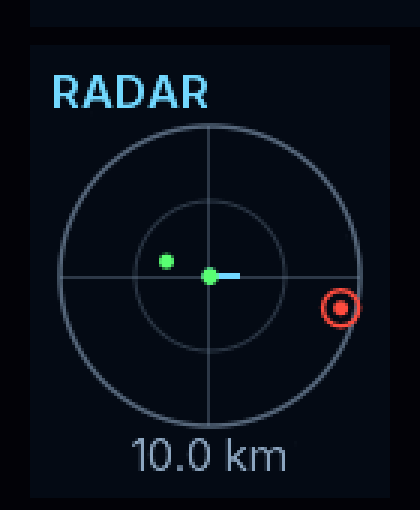
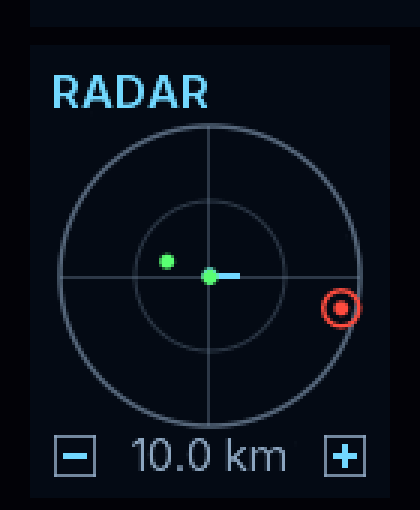
Add radar zoom buttons and click a contact to target it
The radar's range now steps with − and + buttons beside the range label,
from 500 m to 1,000 km, instead of cycling on any click. A click elsewhere
on the scope picks the nearest contact within 8 px: a sensor contact is
locked as Tab would, and a station or other marked object becomes the
navigation target, as on the traffic map.

Claude-Session: https://claude.ai/code/session_019poqwWfLXwX1cynYL94vJP

diff --git a/ui-hud/src/main/java/com/ringsofiron/uihud/widgets/RadarScope.java b/ui-hud/src/main/java/com/ringsofiron/uihud/widgets/RadarScope.java
@@ -1,5 +1,6 @@
 package com.ringsofiron.uihud.widgets;
 
+import com.badlogic.ashley.core.Entity;
 import com.badlogic.gdx.graphics.Color;
 import com.badlogic.gdx.graphics.g2d.Batch;
 import com.badlogic.gdx.graphics.g2d.BitmapFont;
@@ -16,20 +17,27 @@ import com.badlogic.gdx.utils.FloatArray;
 import com.ringsofiron.uihud.HudSkin;
 import com.ringsofiron.uihud.systems.HudRenderSystem;
 
+import java.util.function.Consumer;
+
 /**
  * The proximity scanner (GDD section 2): contacts around the player's ship, north up like the
  * exterior view, with the ship's heading as a line from the middle. Contacts beyond the range sit
- * on the rim as hollow marks. A click cycles the range through {@link #RANGES}.
+ * on the rim as hollow marks. The + and − buttons either side of the range step it through
+ * {@link #RANGES}; a click anywhere else picks the contact under the cursor, if any, for the
+ * {@link #setPickListener pick listener}.
  *
  * <p>{@link com.ringsofiron.uihud.systems.RadarSystem} fills it each frame.
  */
 public class RadarScope extends Widget {
-    /** Ranges a click cycles through, meters from the ship to the rim. */
-    public static final float[] RANGES = {2_000f, 10_000f, 50_000f, 250_000f};
-    public static final int DEFAULT_RANGE = 1;
+    /** Ranges the buttons step through, meters from the ship to the rim, closest first. */
+    public static final float[] RANGES = {500f, 2_000f, 10_000f, 50_000f, 250_000f, 1_000_000f};
+    public static final int DEFAULT_RANGE = 2;
     private static final float SIZE = 104f;
-    /** The strip under the scope that holds the range, so the text stays off the rim. */
+    /** The strip under the scope that holds the range and the zoom buttons, so they stay off the rim. */
     private static final float LABEL_HEIGHT = 16f;
+    private static final float BUTTON = 14f;
+    /** How near the cursor, in pixels, a click has to be to a contact's mark to pick it. */
+    static final float PICK_RADIUS = 8f;
 
     private final TextureRegion white;
     private final BitmapFont font;
@@ -37,10 +45,12 @@ public class RadarScope extends Widget {
     private final FloatArray offsets = new FloatArray();
     private final Array<Color> colors = new Array<>();
     private final FloatArray locked = new FloatArray();
+    private final Array<Entity> entities = new Array<>();
     private final Vector2 p = new Vector2();
     private float headingDeg = 90f;
     private boolean hasShip;
     private int range = DEFAULT_RANGE;
+    private Consumer<Entity> pickListener;
 
     public RadarScope(Skin skin) {
         white = skin.getRegion("white");
@@ -48,13 +58,67 @@ public class RadarScope extends Widget {
         addListener(new ClickListener() {
             @Override
             public void clicked(InputEvent event, float x, float y) {
-                cycleRange();
+                click(x, y);
             }
         });
     }
 
-    public void cycleRange() {
-        range = (range + 1) % RANGES.length;
+    /** Called with the contact a click on the scope lands on; clicks on empty scope call nothing. */
+    public void setPickListener(Consumer<Entity> listener) {
+        pickListener = listener;
+    }
+
+    /** Steps to the next closer range, showing more detail; false when already at the closest. */
+    public boolean zoomIn() {
+        if (range == 0) return false;
+        range--;
+        return true;
+    }
+
+    /** Steps to the next longer range; false when already at the longest. */
+    public boolean zoomOut() {
+        if (range == RANGES.length - 1) return false;
+        range++;
+        return true;
+    }
+
+    /** A click at {@code x, y} in the widget's own coordinates: a zoom button, else a pick. */
+    void click(float x, float y) {
+        if (y <= LABEL_HEIGHT) {
+            if (x <= BUTTON + 2f) zoomOut();
+            else if (x >= getWidth() - BUTTON - 2f) zoomIn();
+            return;
+        }
+        if (pickListener == null || !hasShip) return;
+        int i = pick(x - getWidth() / 2f, y - centerY(), offsets, getRange(), radius(), p);
+        if (i >= 0) pickListener.accept(entities.get(i));
+    }
+
+    /**
+     * Which contact a click {@code x, y} pixels from the scope's middle lands on: the index into
+     * {@code offsets} (dx, dy pairs in meters) of the nearest mark within {@link #PICK_RADIUS}, or -1.
+     */
+    static int pick(float x, float y, FloatArray offsets, float range, float radius, Vector2 tmp) {
+        int best = -1;
+        float bestD2 = PICK_RADIUS * PICK_RADIUS;
+        for (int i = 0; i < offsets.size / 2; i++) {
+            plot(offsets.get(2 * i), offsets.get(2 * i + 1), range, radius, tmp);
+            float d2 = tmp.dst2(x, y);
+            if (d2 <= bestD2) {
+                bestD2 = d2;
+                best = i;
+            }
+        }
+        return best;
+    }
+
+    private float radius() {
+        return Math.min(getWidth(), getHeight() - LABEL_HEIGHT) / 2f - 2f;
+    }
+
+    /** The scope's middle, up from the widget's bottom. */
+    private float centerY() {
+        return LABEL_HEIGHT + (getHeight() - LABEL_HEIGHT) / 2f;
     }
 
     public float getRange() {
@@ -68,9 +132,11 @@ public class RadarScope extends Widget {
         offsets.clear();
         colors.clear();
         locked.clear();
+        entities.clear();
     }
 
-    public void addContact(float dx, float dy, Color color, boolean isLocked) {
+    public void addContact(Entity entity, float dx, float dy, Color color, boolean isLocked) {
+        entities.add(entity);
         offsets.add(dx, dy);
         colors.add(color);
         locked.add(isLocked ? 1f : 0f);
@@ -98,9 +164,8 @@ public class RadarScope extends Widget {
     @Override
     public void draw(Batch batch, float parentAlpha) {
         Color old = batch.getColor().cpy();
-        float scope = Math.min(getWidth(), getHeight() - LABEL_HEIGHT);
-        float r = scope / 2f - 2f;
-        float cx = getX() + getWidth() / 2f, cy = getY() + LABEL_HEIGHT + (getHeight() - LABEL_HEIGHT) / 2f;
+        float r = radius();
+        float cx = getX() + getWidth() / 2f, cy = getY() + centerY();
         HudDraw.color(batch, HudSkin.HUD_DIM, parentAlpha * 0.6f);
         HudDraw.ring(batch, white, cx, cy, r, 1.5f);
         HudDraw.color(batch, HudSkin.HUD_DIM, parentAlpha * 0.3f);
@@ -123,7 +188,23 @@ public class RadarScope extends Widget {
         font.setColor(HudSkin.HUD_DIM.r, HudSkin.HUD_DIM.g, HudSkin.HUD_DIM.b, parentAlpha);
         font.draw(batch, HudRenderSystem.formatRange(getRange()), getX(), getY() + LABEL_HEIGHT - 2f, getWidth(),
                 Align.center, false);
+        float by = getY() + (LABEL_HEIGHT - BUTTON) / 2f;
+        zoomButton(batch, getX(), by, false, range < RANGES.length - 1, parentAlpha);
+        zoomButton(batch, getX() + getWidth() - BUTTON, by, true, range > 0, parentAlpha);
         batch.setColor(old);
+    }
+
+    /** A small boxed + or −, dimmed when it can step no further. */
+    private void zoomButton(Batch batch, float x, float y, boolean plus, boolean enabled, float parentAlpha) {
+        HudDraw.color(batch, HudSkin.HUD_DIM, parentAlpha * (enabled ? 0.8f : 0.3f));
+        HudDraw.line(batch, white, x, y + 0.5f, x + BUTTON, y + 0.5f, 1f);
+        HudDraw.line(batch, white, x, y + BUTTON - 0.5f, x + BUTTON, y + BUTTON - 0.5f, 1f);
+        HudDraw.line(batch, white, x + 0.5f, y, x + 0.5f, y + BUTTON, 1f);
+        HudDraw.line(batch, white, x + BUTTON - 0.5f, y, x + BUTTON - 0.5f, y + BUTTON, 1f);
+        HudDraw.color(batch, enabled ? HudSkin.HUD_CYAN : HudSkin.HUD_DIM, parentAlpha * (enabled ? 1f : 0.4f));
+        float mx = x + BUTTON / 2f, my = y + BUTTON / 2f;
+        HudDraw.line(batch, white, mx - 4f, my, mx + 4f, my, 1.5f);
+        if (plus) HudDraw.line(batch, white, mx, my - 4f, mx, my + 4f, 1.5f);
     }
 
     @Override

diff --git a/core/src/main/java/com/hawkwing/RingsOfIron/RingsOfIronGame.java b/core/src/main/java/com/hawkwing/RingsOfIron/RingsOfIronGame.java
@@ -62,6 +62,7 @@ import com.hawkwing.RingsOfIron.shell.SaveSummary;
 import com.ringsofiron.aicrew.GridPositionComponent;
 import com.ringsofiron.aicrew.PlayerAvatarComponent;
 import com.ringsofiron.coreengine.components.TransformComponent;
+import com.ringsofiron.coreengine.components.UuidComponent;
 import com.ringsofiron.stationsdocking.ForceMethod;
 import com.ringsofiron.interiorgrid.ShipGridComponent;
 import com.ringsofiron.orbital.warp.TimeWarpController;
@@ -302,6 +303,16 @@ public class RingsOfIronGame extends ApplicationAdapter {
                 viewports.getUiViewport().getWorldHeight() - statusBottom + 4f));
         hud.setBannerRight(() -> viewports.getUiViewport().getWorldWidth() - STATUS_WIDTH - 10f);
         hud.getTrafficMap().setPickListener(uuid -> world.notices.replace("Navigation target", world.nav.target.select(uuid)));
+        // A click on a radar contact locks it, as Tab would; a station or other marked object that is
+        // not a sensor contact becomes the navigation target instead, as on the traffic map
+        hud.getRadar().setPickListener(e -> {
+            if (game.contacts.contains(e, true)) {
+                gun.setTarget(e);
+                return;
+            }
+            UuidComponent id = e.getComponent(UuidComponent.class);
+            if (id != null) world.notices.replace("Navigation target", world.nav.target.select(id.id));
+        });
         gameHud.yard.setLayoutEditor(this::openRefit);
         gameHud.yard.setFurnisher(this::startFurnishing);
         world.combatEvents.intercepts.add((signal, hit) -> {

diff --git a/ui-hud/src/test/java/com/ringsofiron/uihud/widgets/RadarScopeTest.java b/ui-hud/src/test/java/com/ringsofiron/uihud/widgets/RadarScopeTest.java
@@ -1,6 +1,7 @@
 package com.ringsofiron.uihud.widgets;
 
 import com.badlogic.gdx.math.Vector2;
+import com.badlogic.gdx.utils.FloatArray;
 import com.ringsofiron.uihud.systems.NavMarkerSystem;
 import org.junit.jupiter.api.Test;
 
@@ -23,6 +24,17 @@ class RadarScopeTest {
         assertEquals(80f, p.len(), 1e-3f);
         assertEquals(-0.6f * 80f, p.x, 1e-3f);
         assertEquals(0.8f * 80f, p.y, 1e-3f);
+    }
+
+    @Test
+    void aClickPicksTheNearestMarkUnderIt() {
+        FloatArray offsets = new FloatArray(new float[]{5_000f, 0f, 5_500f, 0f, 0f, -30_000f});
+        Vector2 tmp = new Vector2();
+        // 10 km on an 80 px scope: the first plots at 40 px, the second at 44, the third on the rim below
+        assertEquals(0, RadarScope.pick(39f, 1f, offsets, 10_000f, 80f, tmp));
+        assertEquals(1, RadarScope.pick(45f, 0f, offsets, 10_000f, 80f, tmp));
+        assertEquals(2, RadarScope.pick(2f, -78f, offsets, 10_000f, 80f, tmp), "contacts on the rim can be picked too");
+        assertEquals(-1, RadarScope.pick(-40f, 0f, offsets, 10_000f, 80f, tmp), "empty scope picks nothing");
     }
 
     @Test

diff --git a/ui-hud/src/main/java/com/ringsofiron/uihud/systems/RadarSystem.java b/ui-hud/src/main/java/com/ringsofiron/uihud/systems/RadarSystem.java
@@ -53,7 +53,7 @@ public class RadarSystem extends EntitySystem {
         for (Entity e : marked) {
             if (e == player) continue;
             TransformComponent t = TRANSFORMS.get(e);
-            scope.addContact(t.x - self.x, t.y - self.y, MARKERS.get(e).color, e == lock);
+            scope.addContact(e, t.x - self.x, t.y - self.y, MARKERS.get(e).color, e == lock);
         }
     }
 }

diff --git a/documentation/ui-hud/Design.md b/documentation/ui-hud/Design.md
@@ -76,7 +76,7 @@ Entry point: `com.ringsofiron.uihud.UiHud` builds the stage, skin and systems. C
 | `BoardingWindow` | The ship the player's is latched to (K): how it stands, a button to send the boarding party or call it back, and once taken, a row per system that can come off with its sale price and a button to strip it, and a row per cargo with a button to carry it over. Closes when the ships part |
 | `TrafficMap` | Full-screen map (M) of stations and haulers on rails around the body you orbit, with range rings; the wheel zooms toward you |
 | `ShipGauges` | Under the flight readout: propellant (with kg), structure, power (store charge and reactor output) and oxygen bars, amber below 50% and red below 25%. With no oxygen tanks the oxygen bar shows the air in the worst room |
-| `RadarScope`, `RadarSystem` | Under the ship gauges, compact and out of the middle of the view: every marked contact around the ship, north up like the view, tinted like its marker, the locked target ringed, the ship's heading as a line. Contacts out of range sit hollow on the rim. A click cycles 2, 10, 50 and 250 km |
+| `RadarScope`, `RadarSystem` | Under the ship gauges, compact and out of the middle of the view: every marked contact around the ship, north up like the view, tinted like its marker, the locked target ringed, the ship's heading as a line. Contacts out of range sit hollow on the rim. The − and + buttons either side of the range step it through 0.5, 2, 10, 50, 250 and 1,000 km. A click on a contact locks it as Tab would, or makes it the navigation target if it is a station or other object that is not a sensor contact |
 | `NavMarkers`, `NavMarkerSystem` | Prograde (circle with ticks) and retrograde (circle with a cross) 70 px from the ship in the exterior view, along the ship's orbital velocity: its velocity in the bubble plus the bubble's own, the same velocity the speed readout shows |
 
 ### Interfaces other modules fill in
